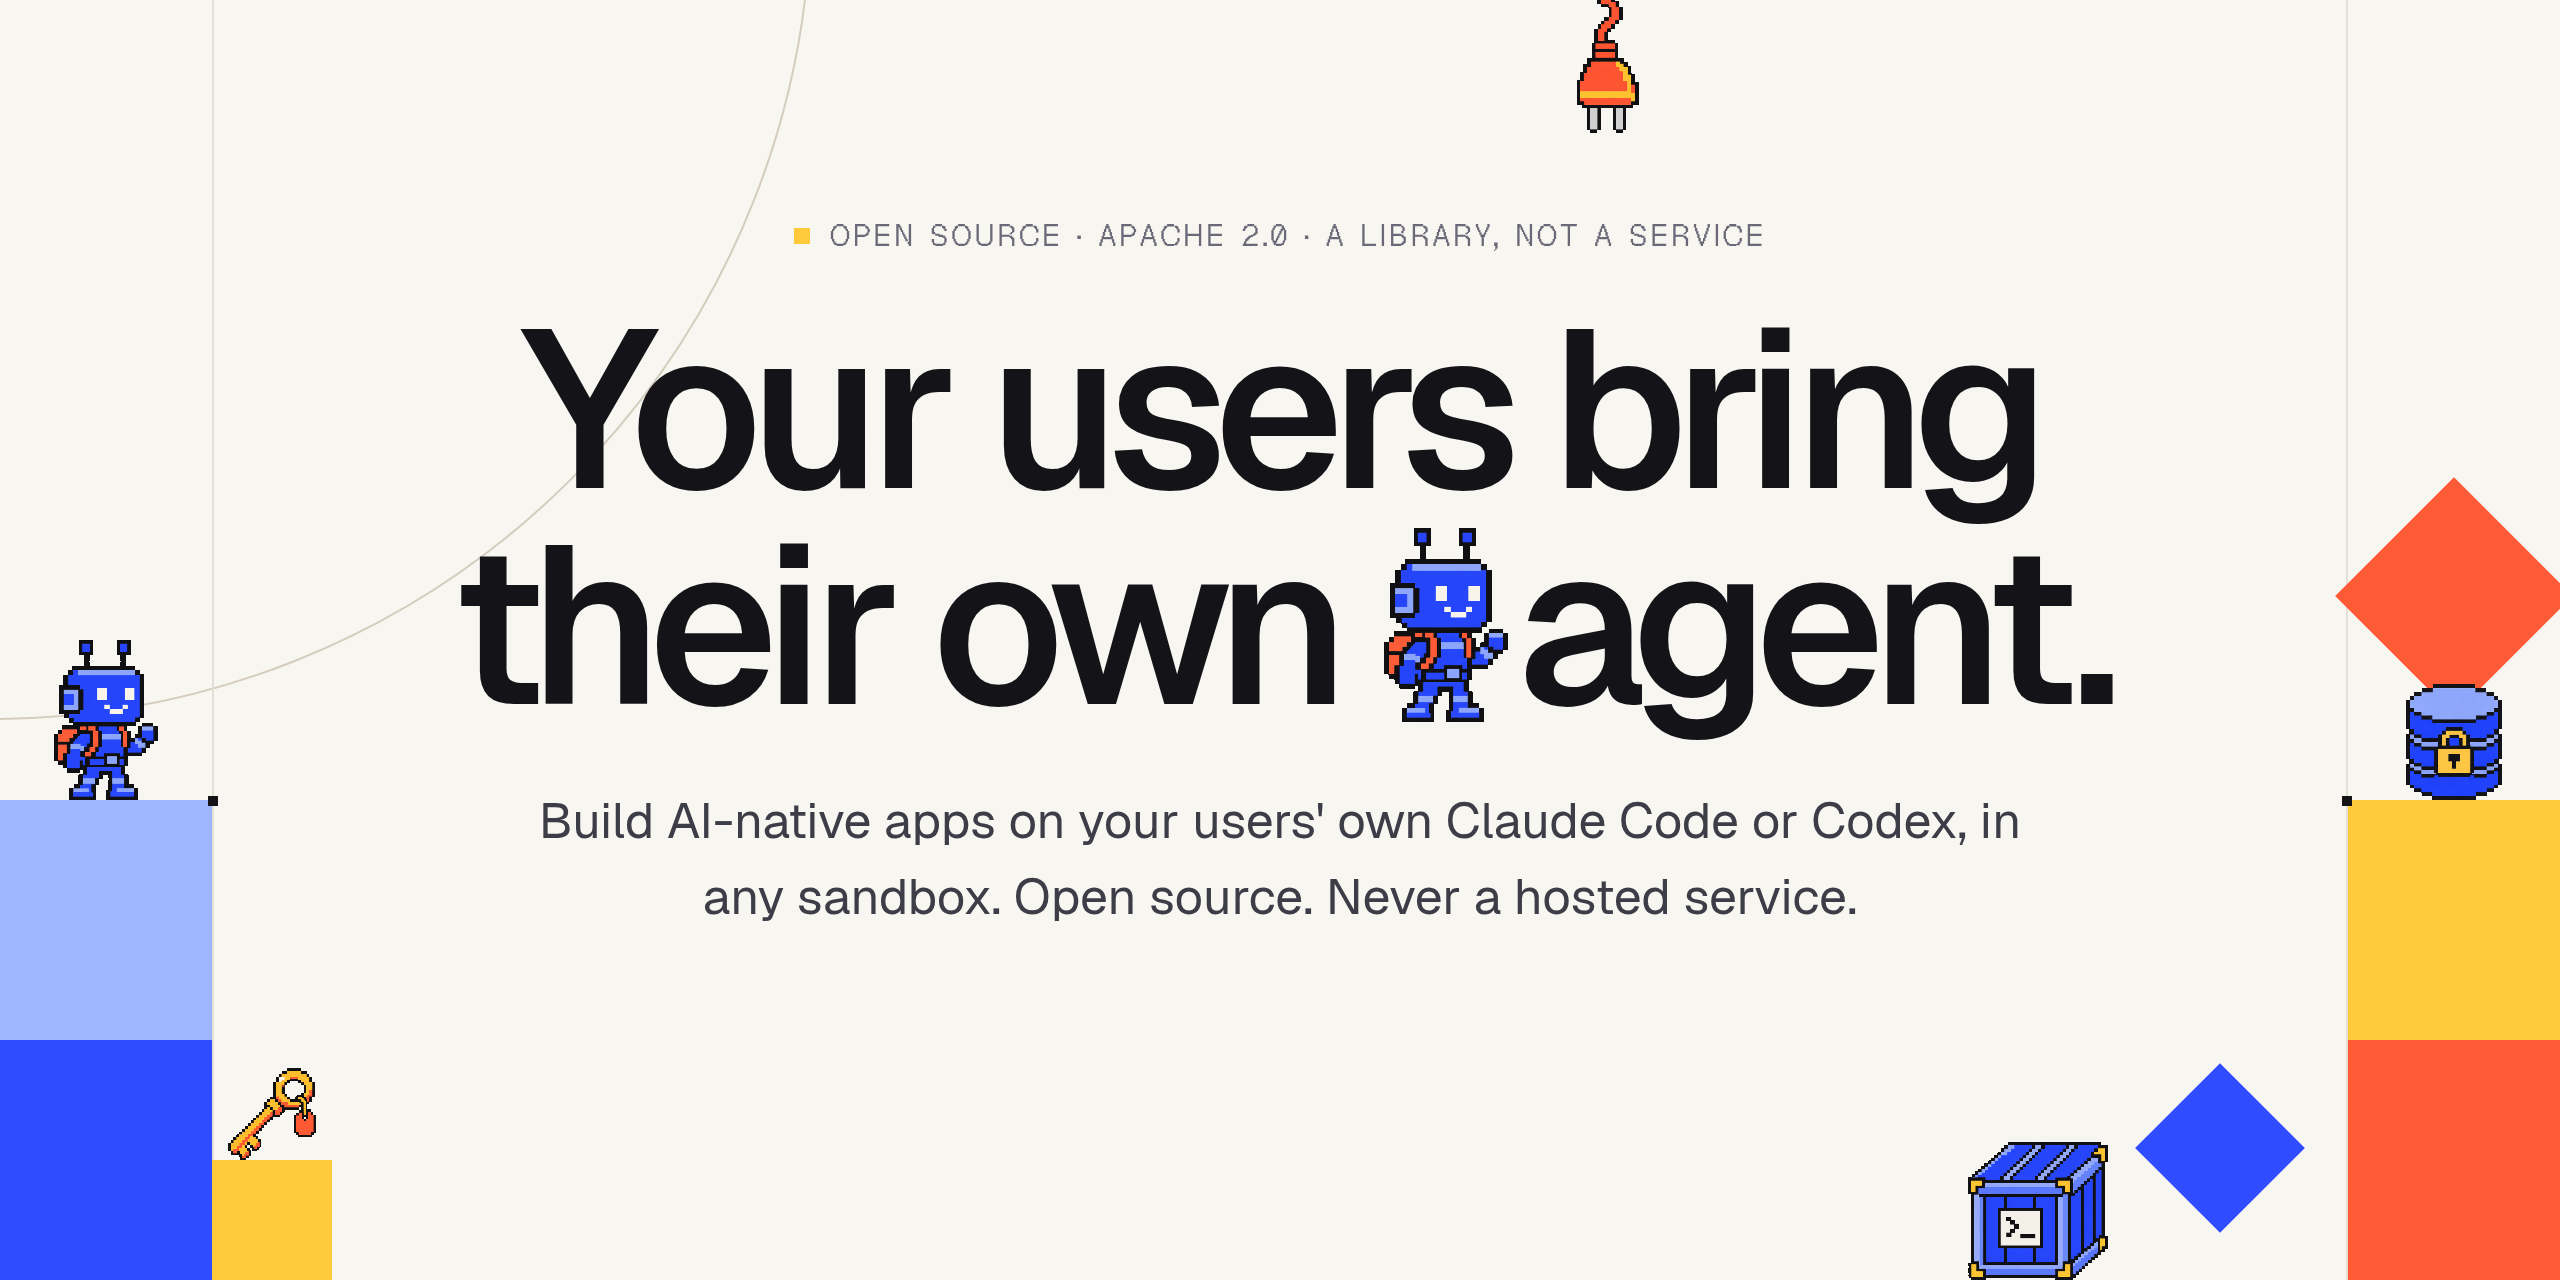
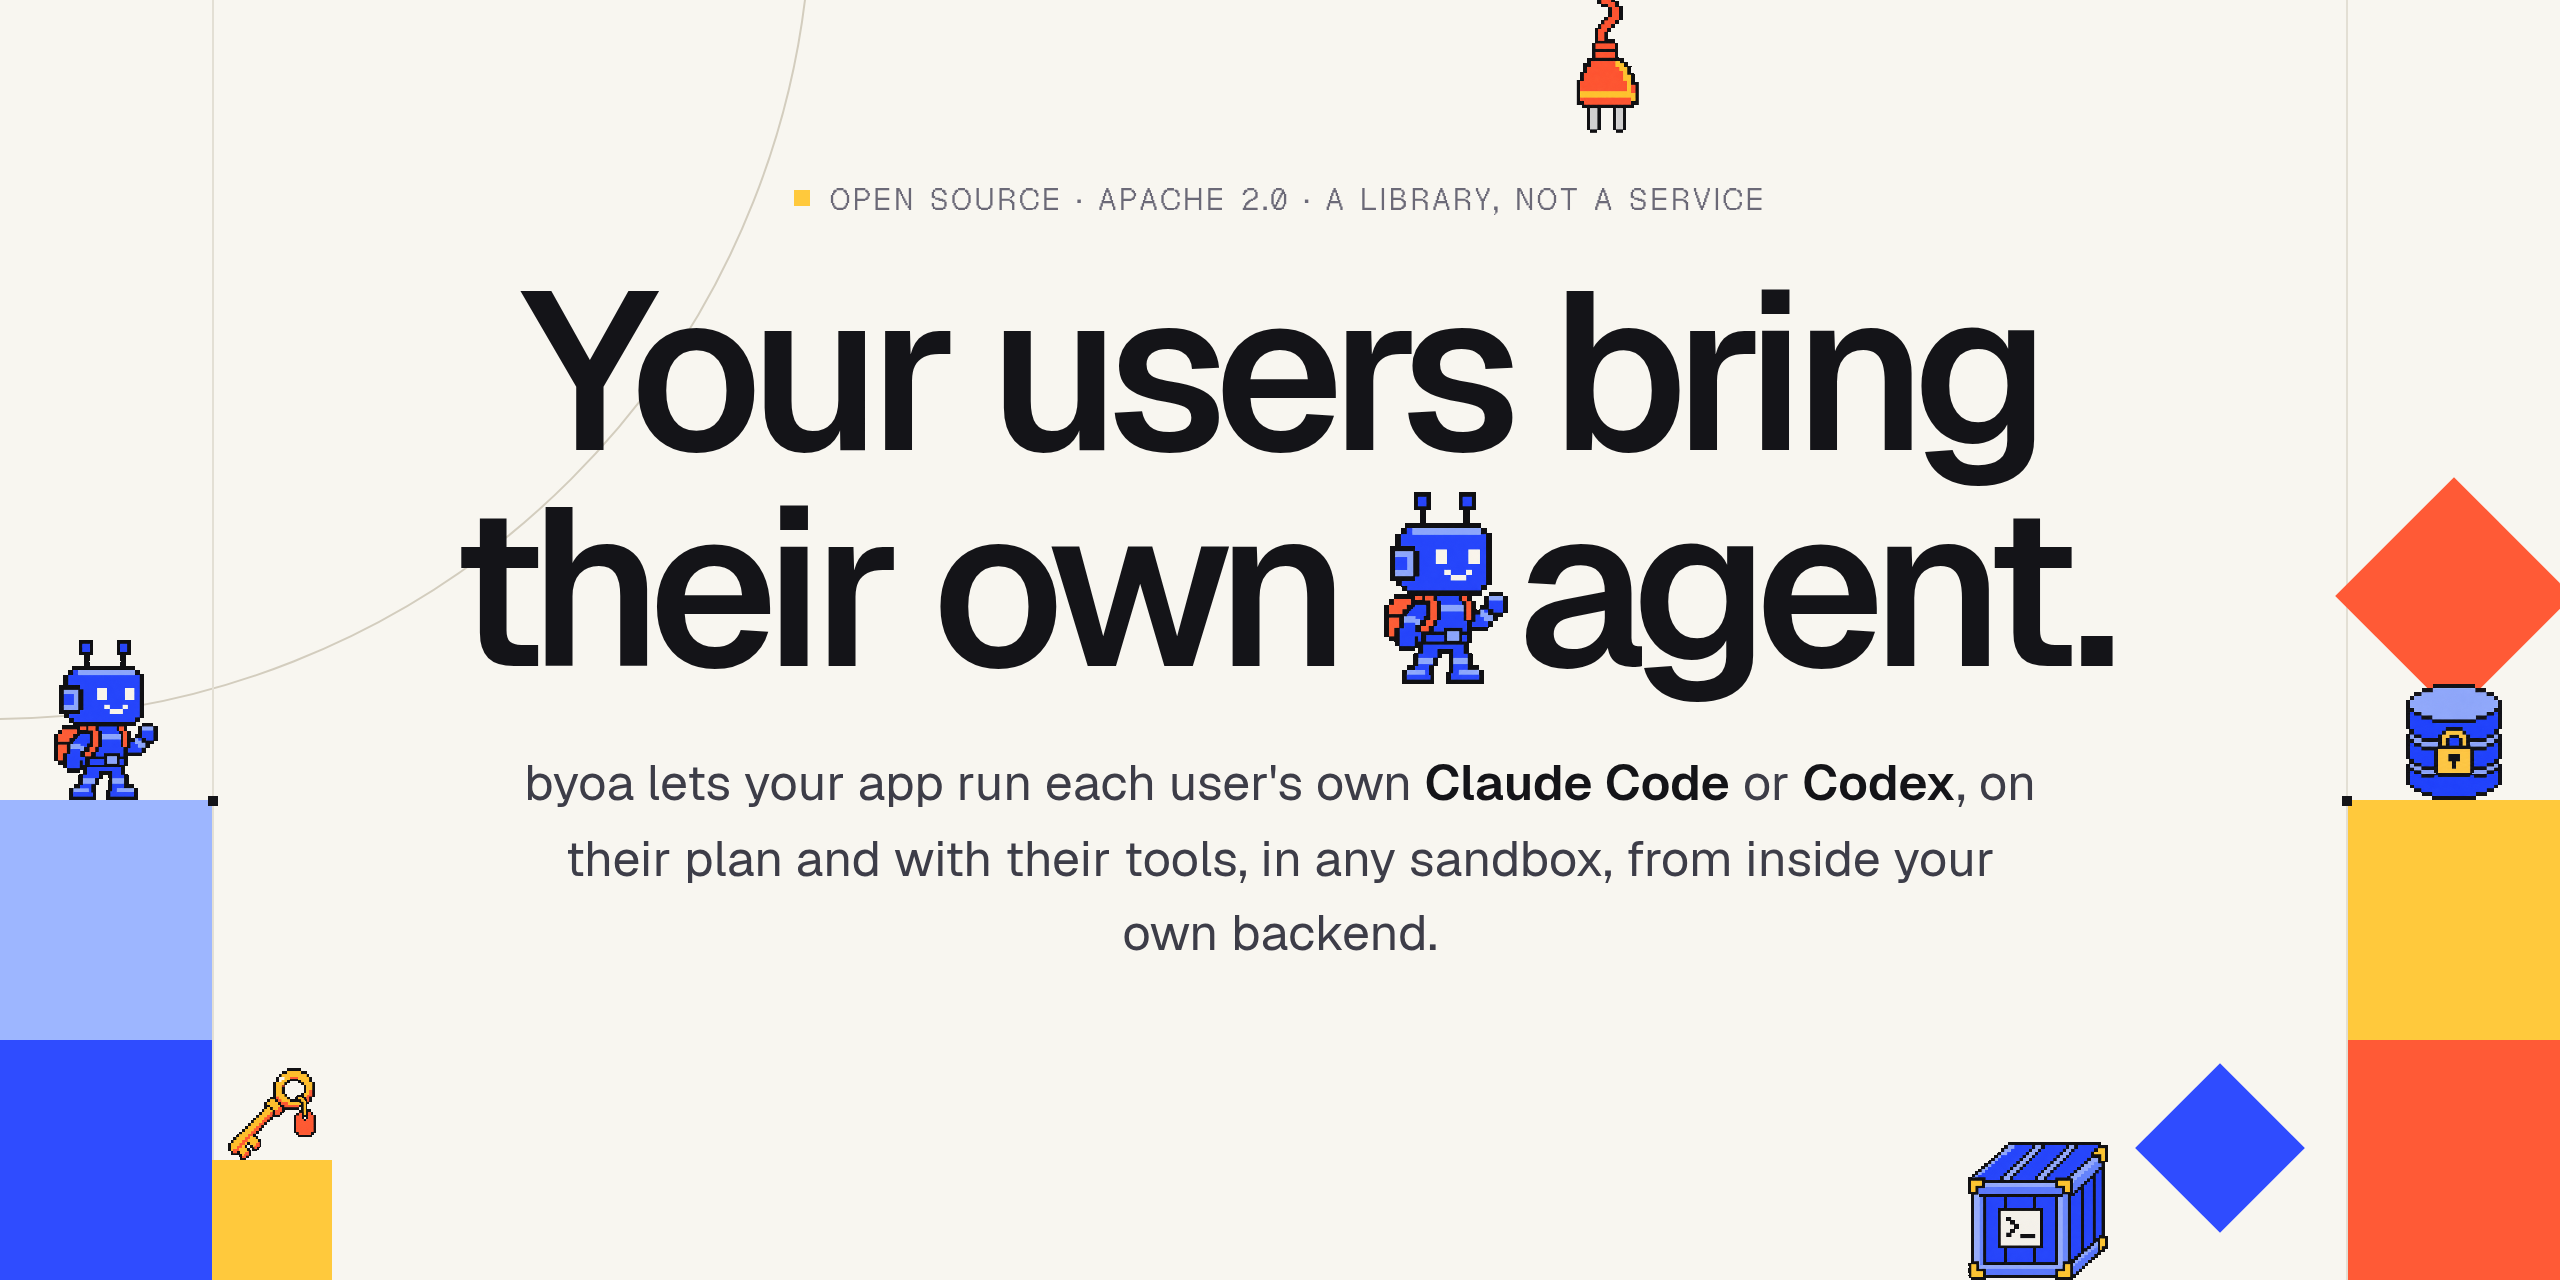
Site: og:description and the social preview use the new one-line pitch
The hero lead and og:description are now the same text, so readme-art.sh no longer
swaps the lead for og:description when it captures the social preview.

Amp-Thread-ID: https://ampcode.com/threads/T-01a2032a-9ddd-73ea-b81e-dd1ca577ce08

Changed region(s): [[0.1562, 0.2188, 0.8438, 0.75], [0.3125, 0.125, 0.5, 0.1875], [0.5312, 0.125, 0.6875, 0.1875]]

diff --git a/site/index.html b/site/index.html
@@ -6,7 +6,7 @@
 <title>byoa: bring your own agent</title>
 <meta name="description" content="byoa lets your app run each user's own Claude Code or Codex, on their plan and with their tools, in any sandbox, from inside your own backend.">
 <meta property="og:title" content="byoa: bring your own agent">
-<meta property="og:description" content="Build AI-native apps on your users' own Claude Code or Codex, in any sandbox. Open source. Never a hosted service.">
+<meta property="og:description" content="byoa lets your app run each user's own Claude Code or Codex, on their plan and with their tools, in any sandbox, from inside your own backend.">
 <meta name="theme-color" content="#f8f6f0">
 <link rel="icon" href="art/agent.png">
 <link rel="preload" href="fonts/Geist-Variable.woff2" as="font" type="font/woff2" crossorigin>

diff --git a/site/template.html b/site/template.html
@@ -6,7 +6,7 @@
 <title>byoa: bring your own agent</title>
 <meta name="description" content="byoa lets your app run each user's own Claude Code or Codex, on their plan and with their tools, in any sandbox, from inside your own backend.">
 <meta property="og:title" content="byoa: bring your own agent">
-<meta property="og:description" content="Build AI-native apps on your users' own Claude Code or Codex, in any sandbox. Open source. Never a hosted service.">
+<meta property="og:description" content="byoa lets your app run each user's own Claude Code or Codex, on their plan and with their tools, in any sandbox, from inside your own backend.">
 <meta name="theme-color" content="#f8f6f0">
 <link rel="icon" href="art/agent.png">
 <link rel="preload" href="fonts/Geist-Variable.woff2" as="font" type="font/woff2" crossorigin>
